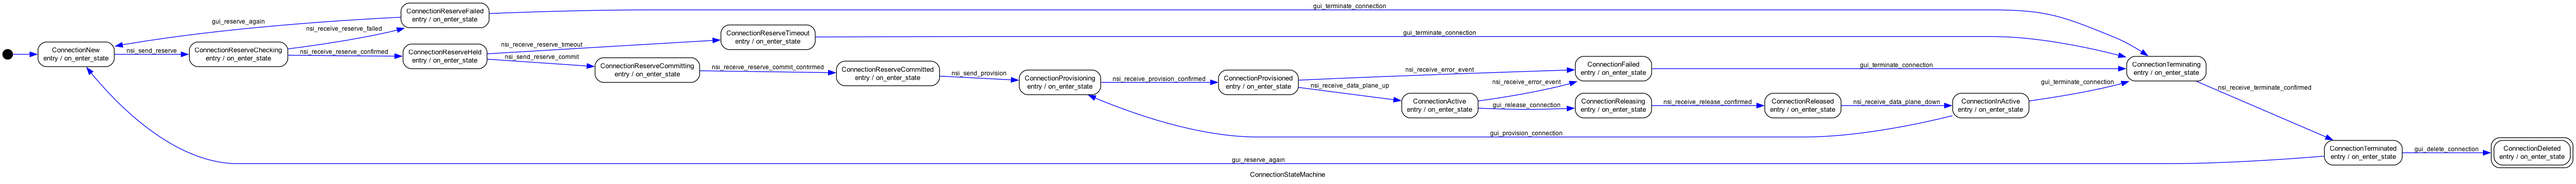
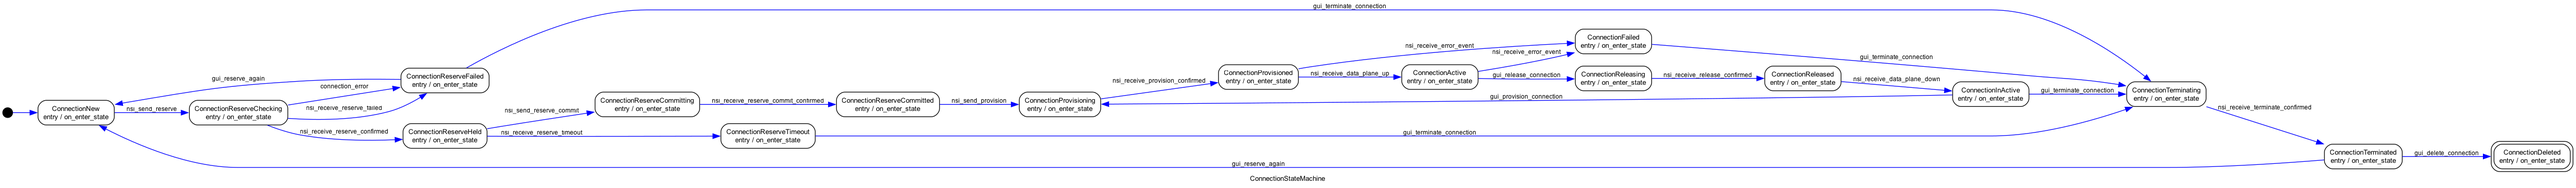
catch connection errors during nsi send reserve

diff --git a/aura/job.py b/aura/job.py
@@ -20,6 +20,7 @@ from apscheduler.schedulers.background import BackgroundScheduler
 from pytz import utc
 
 from aura.db import Session
+from aura.fsm import ConnectionStateMachine
 from aura.model import STP, Reservation
 from aura.nsi_aura import nsi_load_dds_documents
 from aura.nsi_comm import (
@@ -62,10 +63,19 @@ def nsi_send_reserve_job(reservation_id: int) -> None:
         reservation = session.query(Reservation).filter(Reservation.id == reservation_id).one()
         source_stp = session.query(STP).filter(STP.id == reservation.sourceStpId).one()  # TODO: replace with relation
         dest_stp = session.query(STP).filter(STP.id == reservation.destStpId).one()  # TODO: replace with relation
-    retdict = nsi_send_reserve(reservation, source_stp, dest_stp)  # TODO: need error handling post soap failure
-    with Session.begin() as session:
-        reservation = session.query(Reservation).filter(Reservation.id == reservation_id).one()
-        reservation.connectionId = UUID(retdict["connectionId"])  # TODO: make nsi_comm return a UUID
+    try:
+        retdict = nsi_send_reserve(reservation, source_stp, dest_stp)  # TODO: need error handling post soap failure
+    except OSError as e:
+        log = logger.bind(reservationId=reservation.id, globalReservationId=str(reservation.globalReservationId))
+        log.warning(str(e))
+        with Session.begin() as session:
+            reservation = session.query(Reservation).filter(Reservation.id == reservation_id).one()
+            csm = ConnectionStateMachine(reservation)
+            csm.connection_error()
+    else:
+        with Session.begin() as session:
+            reservation = session.query(Reservation).filter(Reservation.id == reservation_id).one()
+            reservation.connectionId = UUID(retdict["connectionId"])  # TODO: make nsi_comm return a UUID
 
 
 def nsi_send_reserve_commit_job(reservation_id: int) -> None:

diff --git a/aura/fsm.py b/aura/fsm.py
@@ -68,6 +68,7 @@ class ConnectionStateMachine(AuraStateMachine):
     nsi_send_reserve = ConnectionNew.to(ConnectionReserveChecking)
     nsi_receive_reserve_confirmed = ConnectionReserveChecking.to(ConnectionReserveHeld)
     nsi_receive_reserve_failed = ConnectionReserveChecking.to(ConnectionReserveFailed)
+    connection_error = ConnectionReserveChecking.to(ConnectionReserveFailed)
     nsi_receive_reserve_timeout = ConnectionReserveHeld.to(ConnectionReserveTimeout)
     nsi_send_reserve_commit = ConnectionReserveHeld.to(ConnectionReserveCommitting)
     nsi_receive_reserve_commit_confirmed = ConnectionReserveCommitting.to(ConnectionReserveCommitted)
